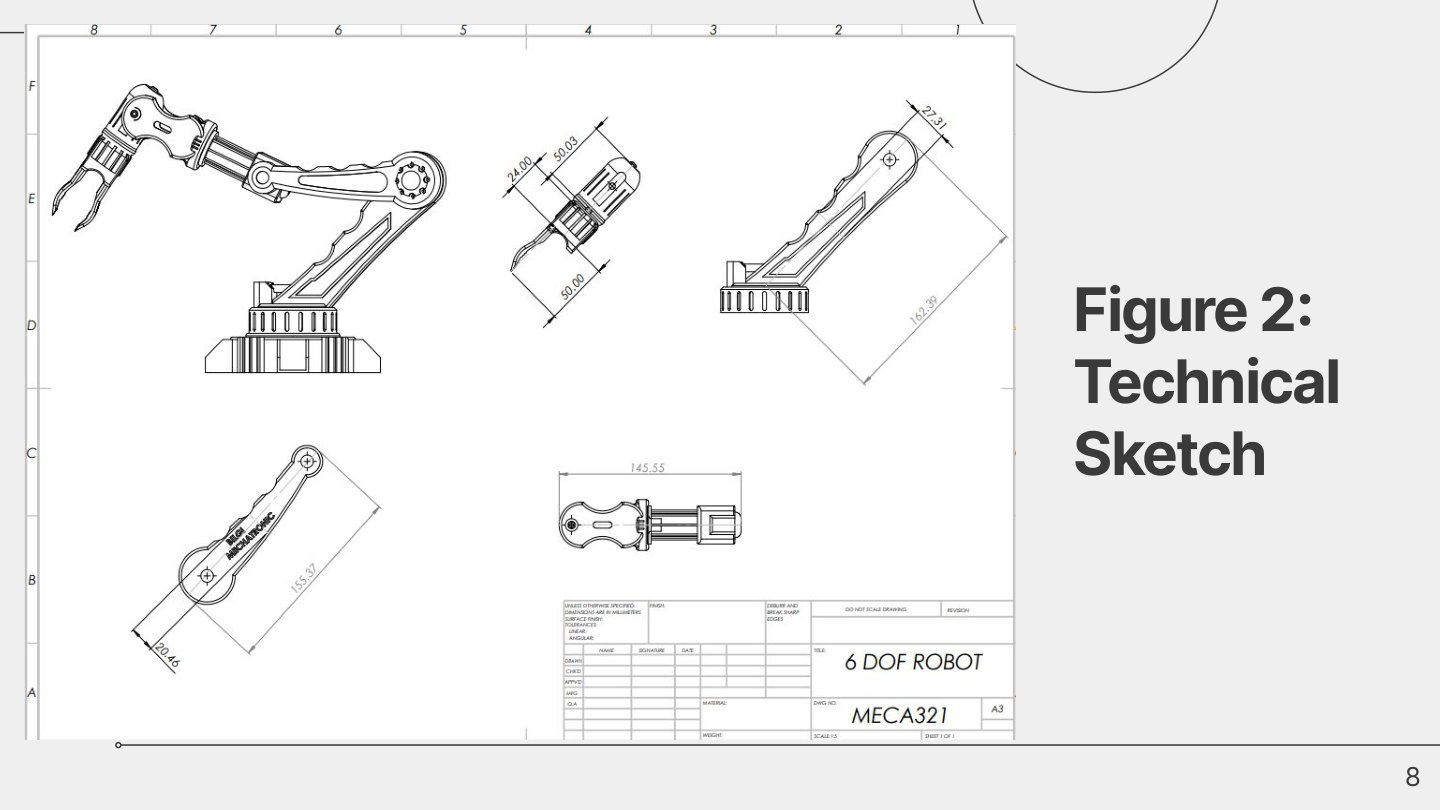
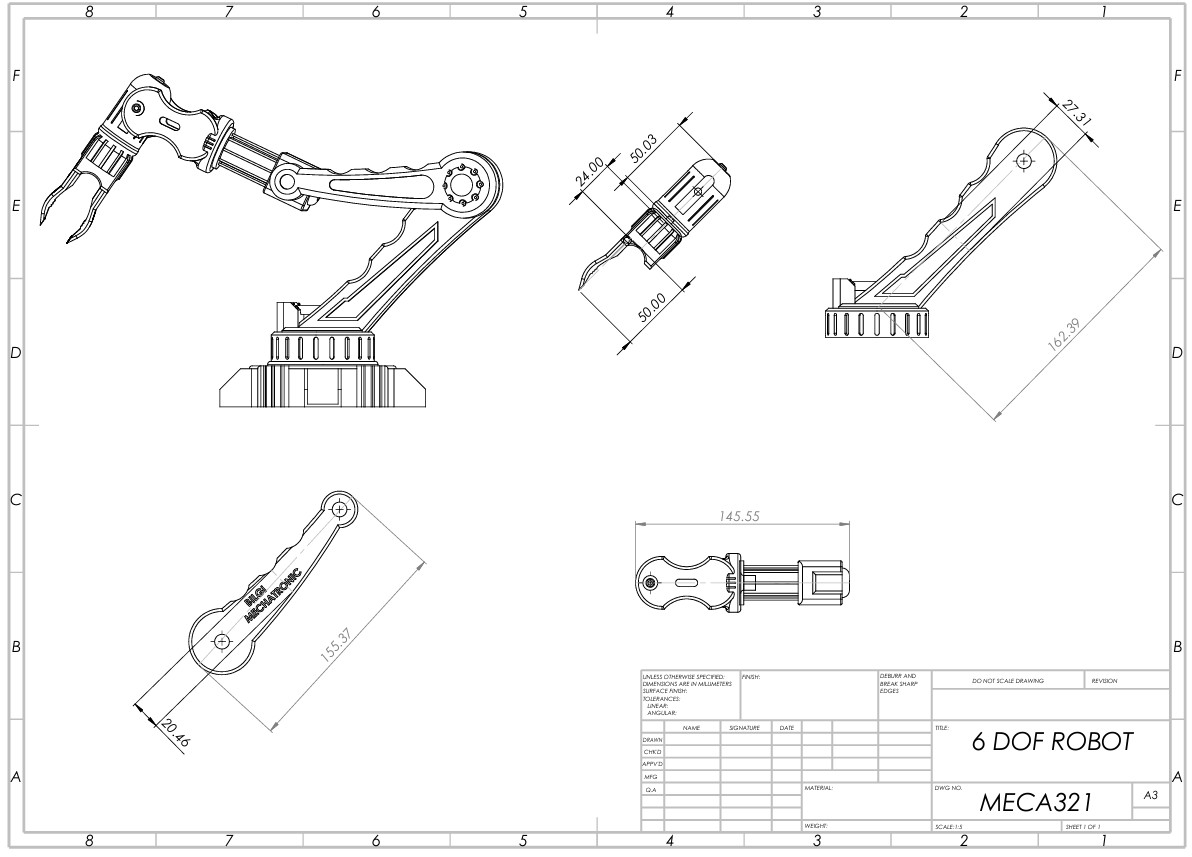
changed sketch pic and added video to 6dof robot

diff --git a/_projects/robotic_arm_static_failure/index.md b/_projects/robotic_arm_static_failure/index.md
@@ -27,6 +27,8 @@ is realistic for manufacturing, weight, and cost.
 {% include image-gallery.html images="/assets/img/robotic_arm_static_failure/robotic_arm_render.jpg, /assets/img/robotic_arm_static_failure/robotic_arm_technical_sketch.jpg" height="320" %}
 
 ---
+### Video Presentation
+{% include youtube-video.html id="TH60euTRxBk" autoplay="true" %}
 
 ## Design Requirements and Assumptions
 ### Design targets (worst-case)
